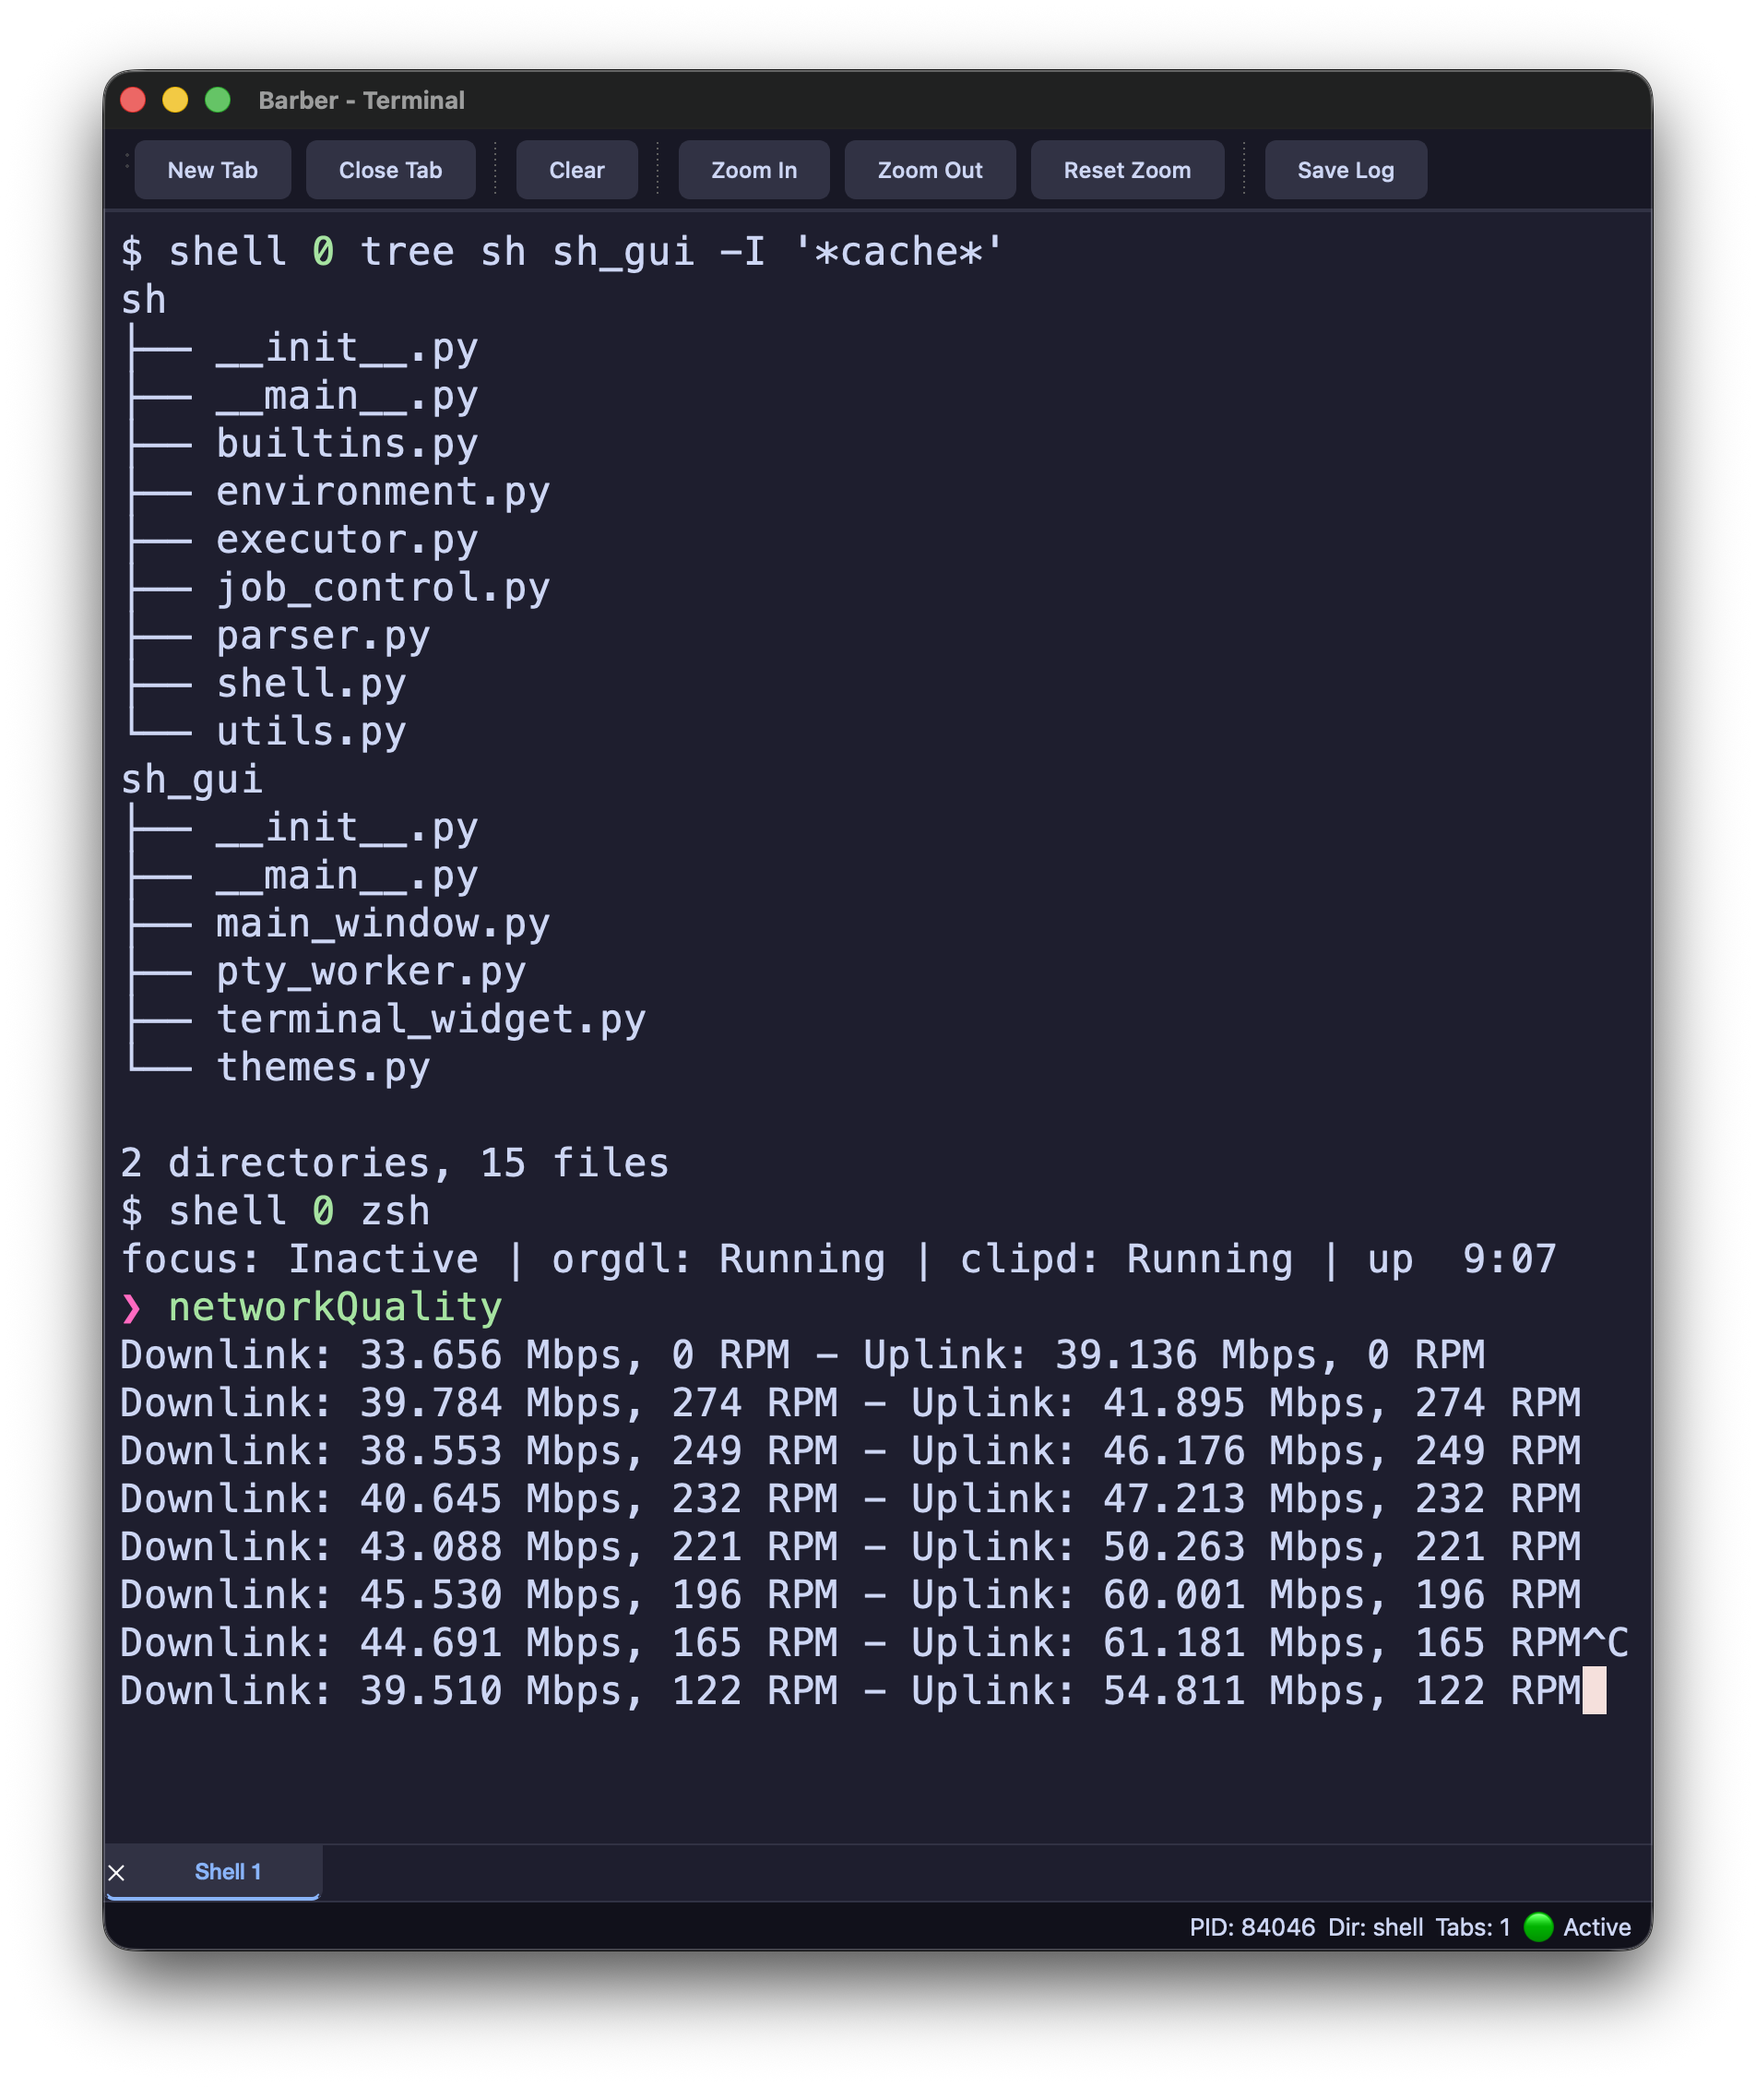
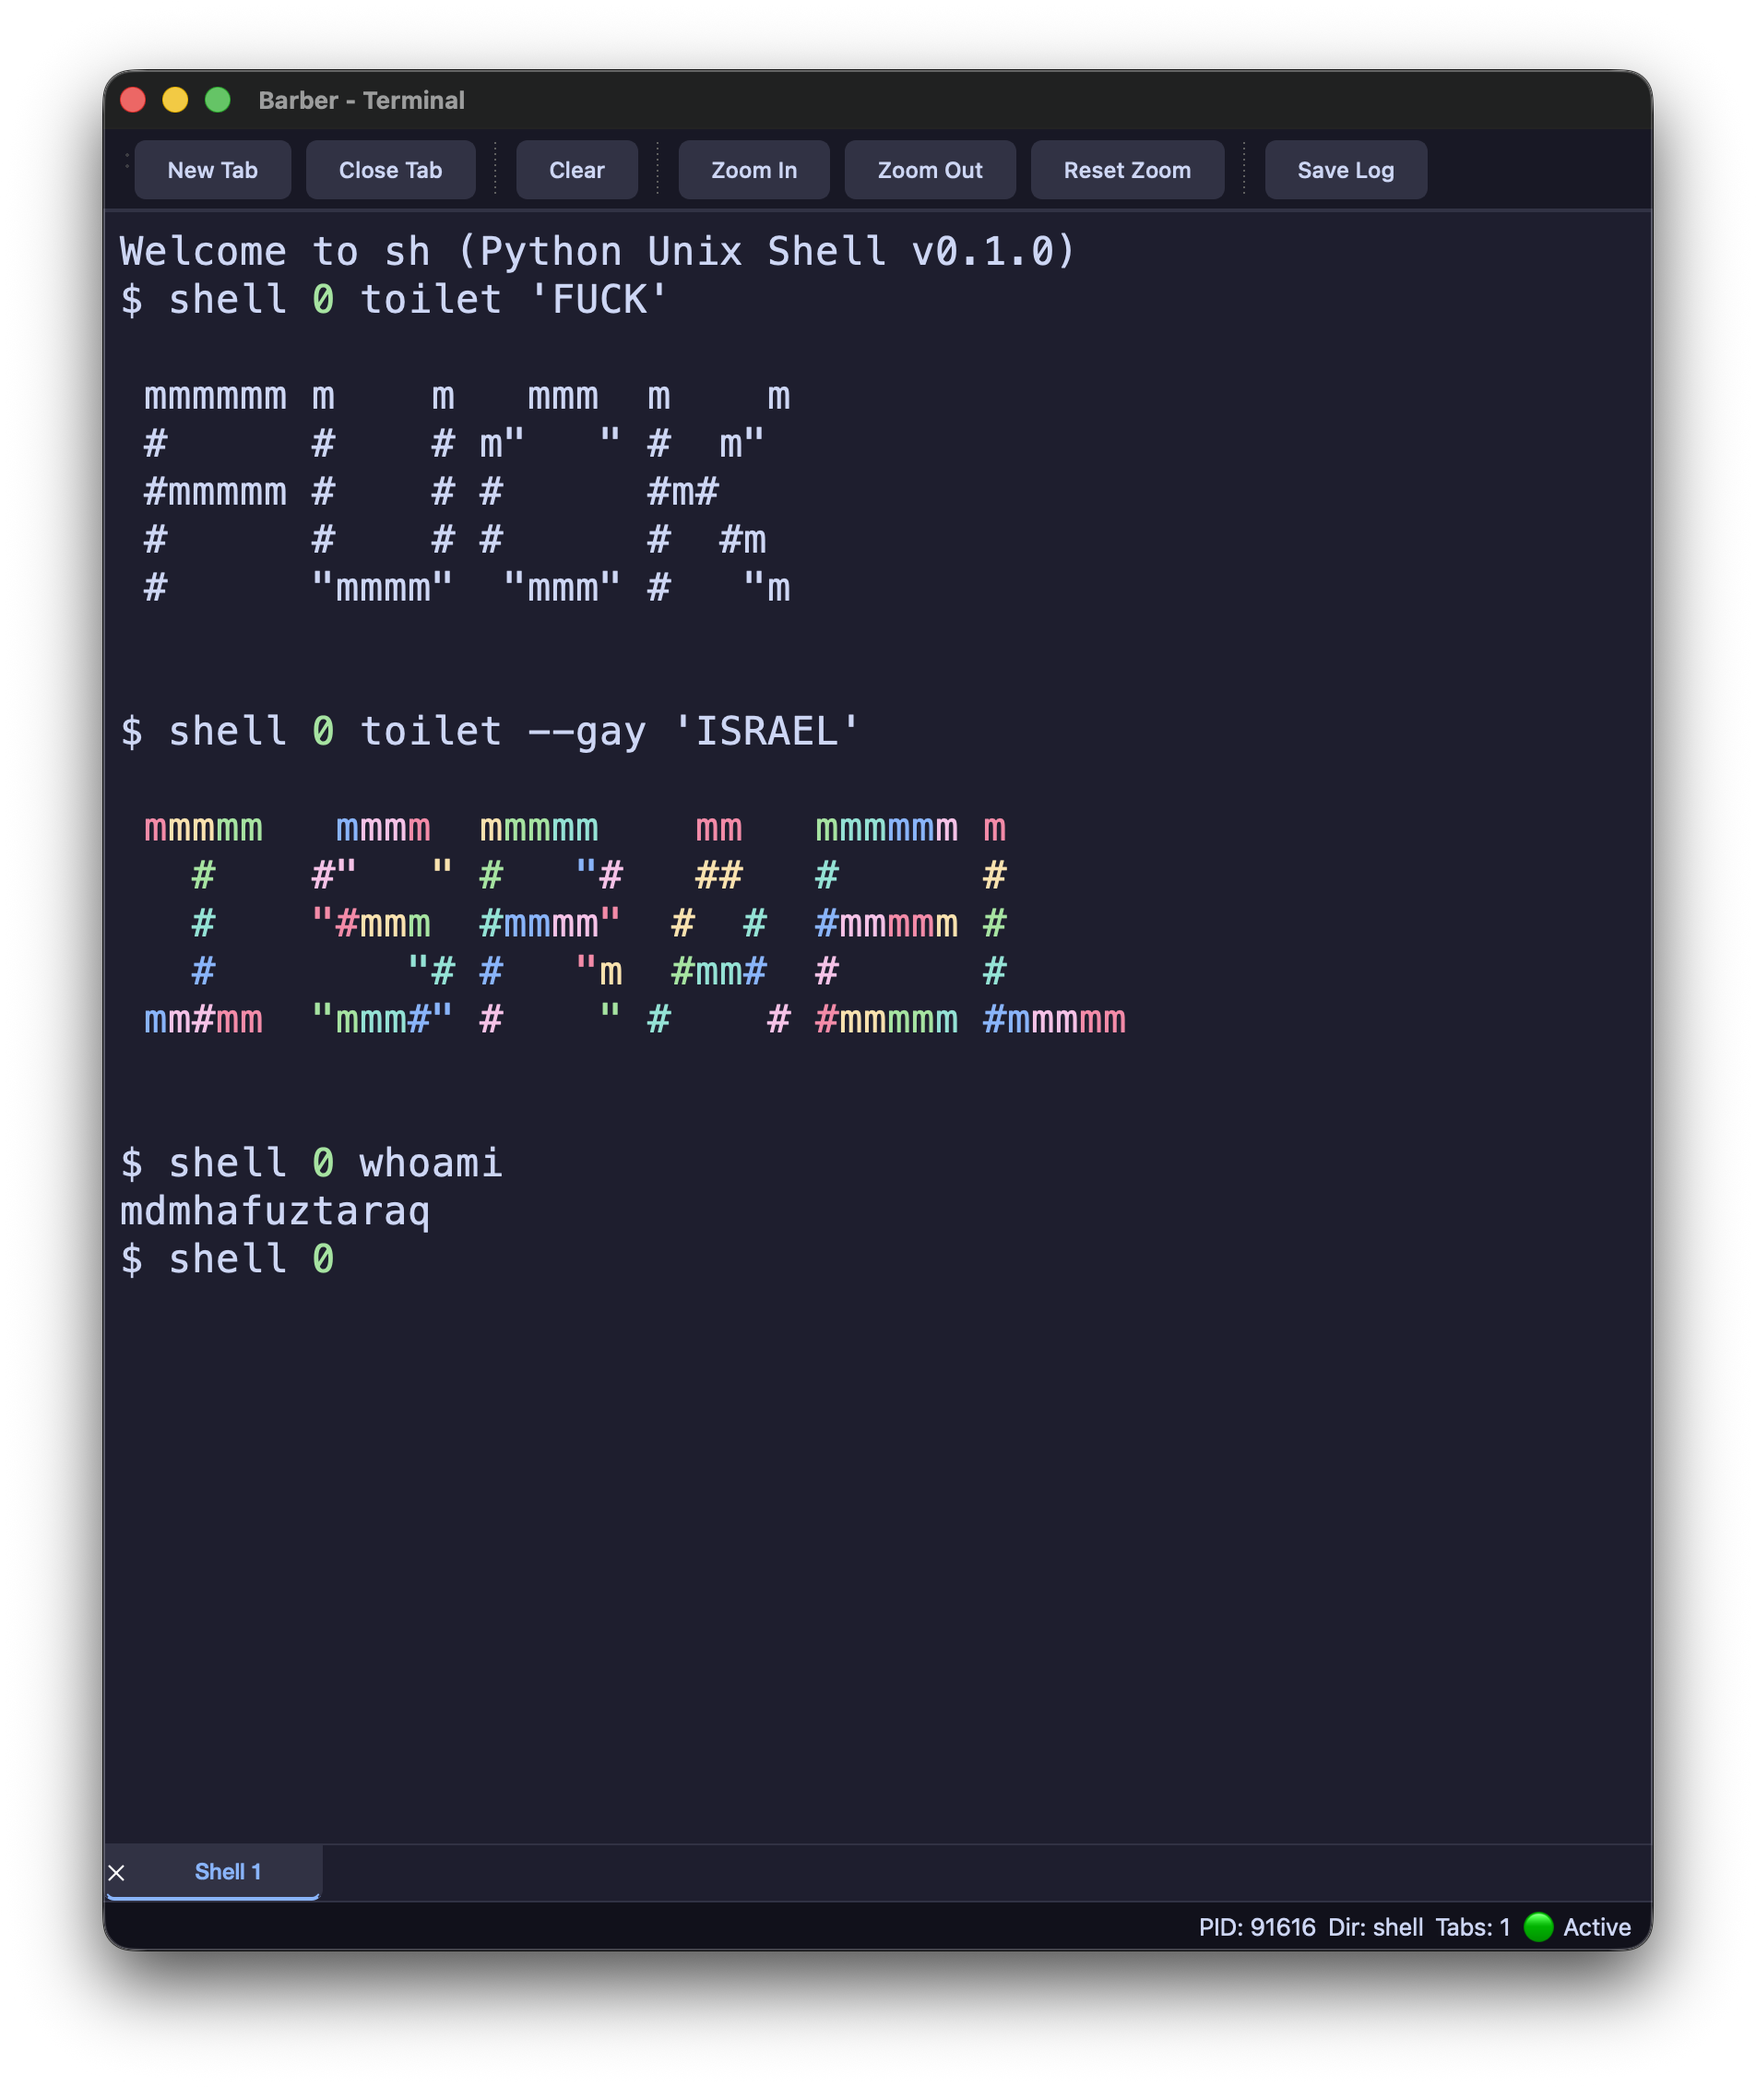
doc: fuck israel

diff --git a/README.md b/README.md
@@ -21,6 +21,12 @@ A custom Unix shell implemented in Python featuring AST-based command parsing, p
   - Multi-tab management, dynamic current working directory status bar metrics (`Dir: <cwd>`), font zooming, log exporting, and copy/paste integration.
 
 ---
+## Fuck Israel
+
+<a href="terminal.png">
+  <img src="terminal.png" alt="PyQt6 Terminal Emulator (Barber)" width="600" height="650"/>
+</a>
+
 
 ## Quick Start
 
